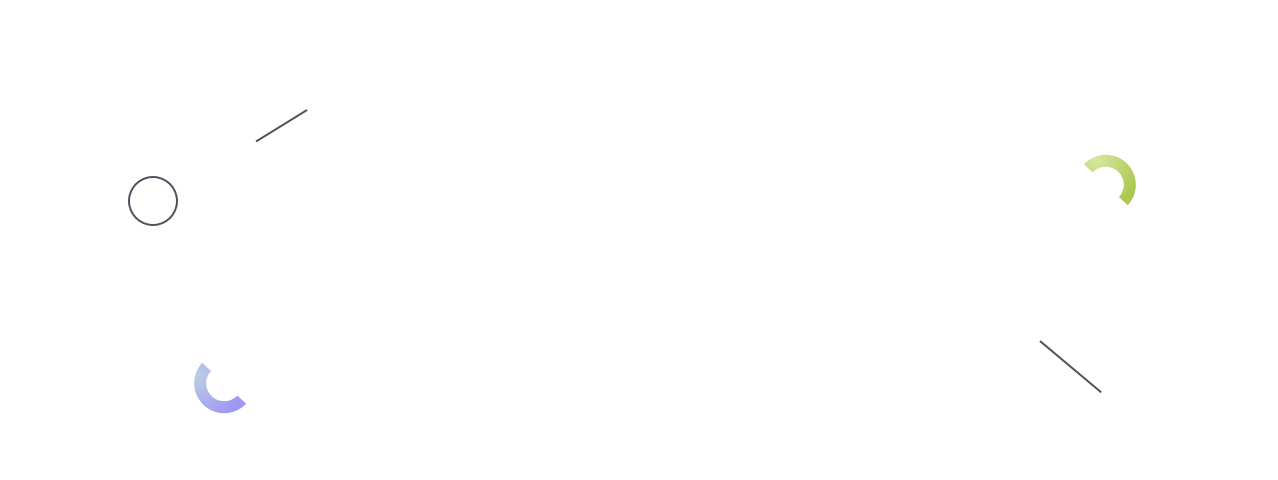
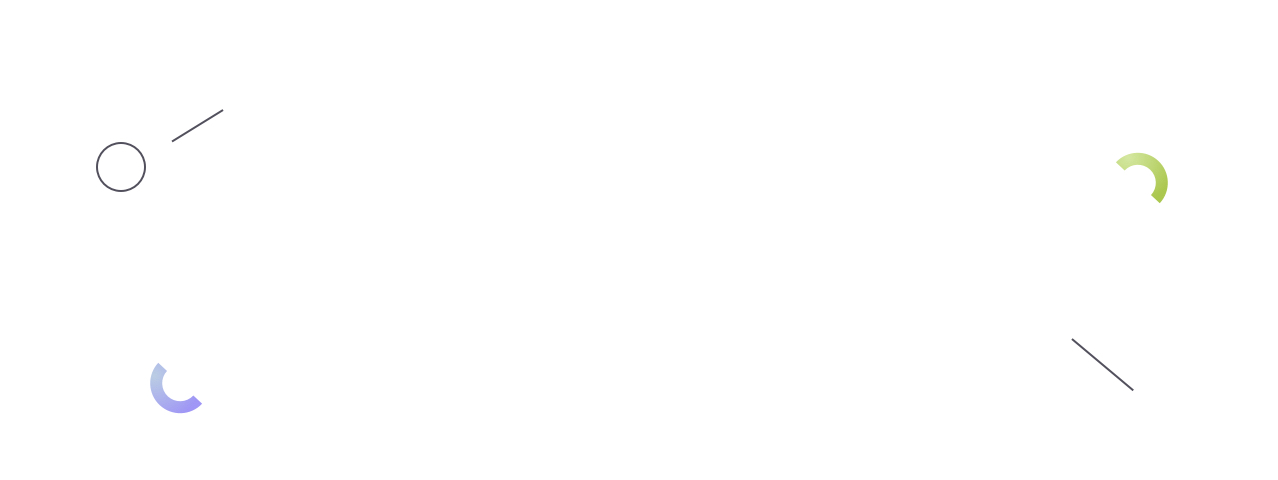
unnecessary device size styling deleted

diff --git a/css/style.css b/css/style.css
@@ -489,98 +489,6 @@ footer a:hover {
   color: #19191A;
 }
 
-/* ----------FOOTER ENDS HERE--------------------------------- */
-/* ==============================
-Medium devices (442px and larger)
-================================= */
-@media only screen and (min-width: 422px) {
-  main {
-    padding-top: 150px;
-  }
-}
-
-/* ==============================
-  Medium devices (640px and larger)
-  ================================= */
-@media only screen and (min-width: 640px) {
-  header {
-    text-align: unset;
-    padding: 20px 0 13px;
-  }
-
-  nav {
-    width: auto;
-    float: right;
-    margin-top: 4px;
-  }
-
-  .col-md-6 {
-    padding: 2%;
-    width: 50%;
-  }
-}
-
-/* ==============================
-Large devices (1024px or larger)
-================================= */
-@media only screen and (min-width: 1024px) {}
-
-main {
-  padding-top: 150px;
-}
-
-/* ==============================
-X-large devices (1440px or larger)
-================================= */
-@media only screen and (min-width: 1440px) {}
-
-/* ==============================
-Extra-large devices (1920px or larger)
-================================= */
-@media only screen and (min-width: 1920px) {}
-
-/* Override: On screens that are 1006px wide or less */
-@media screen and (max-width: 1006px) {
-  header {
-    background-color: #ffffff;
-    padding: 10px;
-    width: 100%;
-    position: absolute;
-    text-align: unset;
-    border-bottom: 4px solid #19191A;
-  }
-
-  .box {
-    background: url(../img/fun/fun-shapes-small.jpg);
-    padding: 20px;
-    background-repeat: no-repeat;
-    background-size: cover;
-    background-position: center;
-  }
-
-  .row {
-    display: block;
-  }
-
-  .card {
-    margin-bottom: 50px;
-  }
-
-  img {
-    width: 100%;
-  }
-
-  body {
-    margin: 0px;
-  }
-
-  main {
-    margin: 0 auto;
-    padding: 0 20px;
-    padding-top: 130px;
-  }
-}
-
 /* Override: On screens that are 1201px wide or more */
 @media screen and (min-width: 1201px) {
   header {
@@ -600,7 +508,7 @@ Extra-large devices (1920px or larger)
   }
 
   .boxabout {
-    background: url(../img/fun/fun-shapes-about.jpg);
+    background: url(../img/fun/fun-shapes-about.large.jpg);
     padding: 20px;
     background-repeat: no-repeat;
     background-size: cover;
@@ -629,6 +537,58 @@ Extra-large devices (1920px or larger)
   }
 }
 
+/* Override: On screens that are 1006px wide or less */
+@media screen and (max-width: 1006px) {
+  header {
+    background-color: #ffffff;
+    padding: 10px;
+    width: 100%;
+    position: absolute;
+    text-align: unset;
+    border-bottom: 4px solid #19191A;
+  }
+
+  .box {
+    background: url(../img/fun/fun-shapes-small.jpg);
+    padding: 20px;
+    background-repeat: no-repeat;
+    background-size: cover;
+    background-position: center;
+  }
+
+  .boxabout {
+    background: url(../img/fun/fun-shapes-about-small.jpg);
+    padding: 20px;
+    background-repeat: no-repeat;
+    background-size: cover;
+    background-position: center;
+    height: 150px;
+  }
+
+  .row {
+    display: block;
+  }
+
+  .card {
+    margin-bottom: 50px;
+  }
+
+  img {
+    width: 100%;
+  }
+
+  body {
+    margin: 0px;
+  }
+
+  main {
+    margin: 0 auto;
+    padding: 0 20px;
+    padding-top: 130px;
+  }
+}
+
+
 /* Override: On screens that are 924px wide or less */
 @media screen and (max-width: 924px) {
   header {
@@ -641,11 +601,20 @@ Extra-large devices (1920px or larger)
   }
 
   .box {
-    background: url(../img/fun/fun-shapes-mid.jpg);
+    background: url(../img/fun/fun-shapes-small.jpg);
     padding: 20px;
     background-repeat: no-repeat;
     background-size: cover;
     background-position: center;
+  }
+
+  .boxabout {
+    background: url(../img/fun/fun-shapes-about-small.jpg);
+    padding: 20px;
+    background-repeat: no-repeat;
+    background-size: cover;
+    background-position: center;
+    height: 150px;
   }
 
   .row {
@@ -685,6 +654,13 @@ Extra-large devices (1920px or larger)
     max-width: 1200px;
     margin-left: auto;
     margin-right: auto;
+  }
+  .boxabout {
+    background: url(../img/fun/fun-shapes-about-small.jpg);
+    background-repeat: no-repeat;
+    background-position: center;
+    padding: 20px;
+    height: 150px;
   }
 }
 
